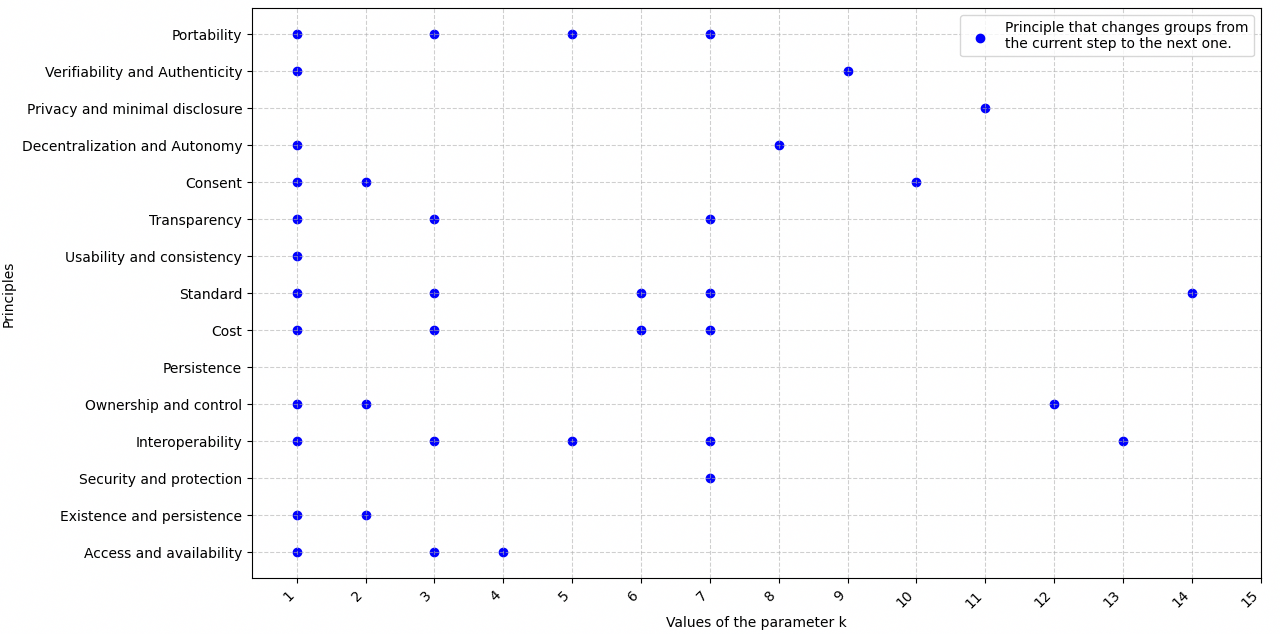
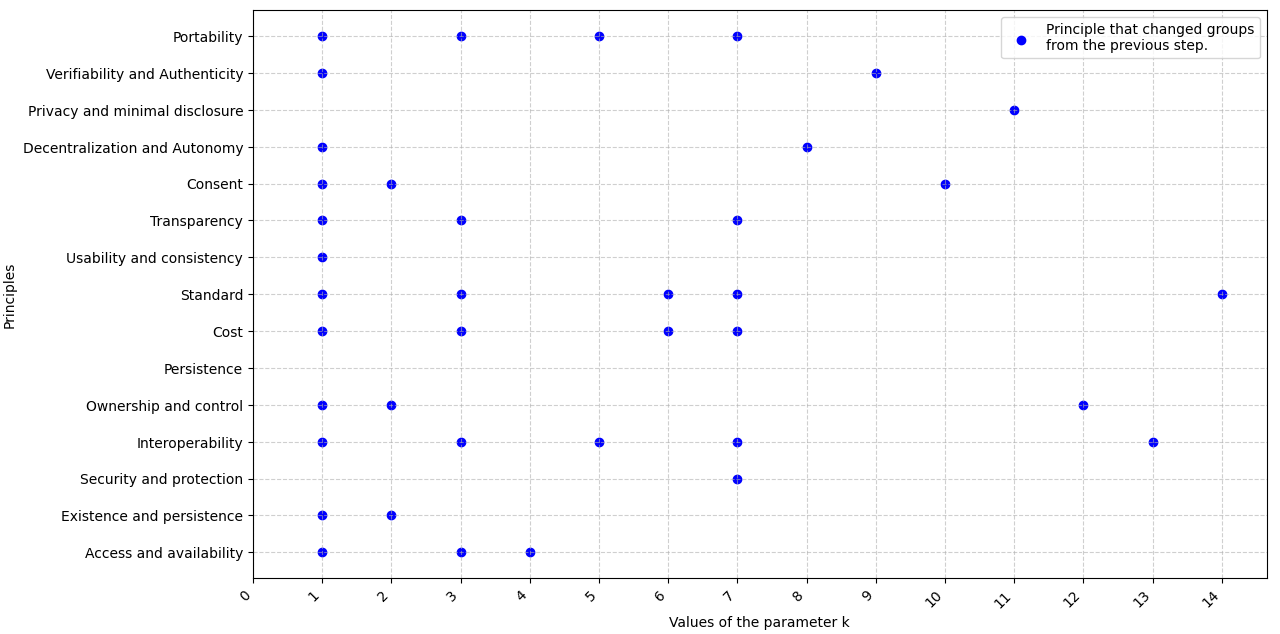
.

diff --git a/definition/program/clustering/kmeans/Flowchart_principles.py b/definition/program/clustering/kmeans/Flowchart_principles.py
@@ -1,0 +1,101 @@
+import matplotlib.pyplot as plt
+import numpy as np
+from scipy.interpolate import make_interp_spline
+
+# Original order of principles (left side)
+principles_left = [
+    "Access and availability", "Existence and persistence", "Security and protection", "Interoperability", 
+    "Ownership and control", "Persistence", "Cost", "Standard", "Usability and consistency", "Transparency", 
+    "Consent", "Decentralization and Autonomy", "Privacy and minimal disclosure", "Verifiability and Authenticity", 
+    "Portability"
+]
+
+# Desired order of principles (right side)
+principles_right = [
+    "Persistence", "Usability and consistency", "Existence and persistence", "Portability", 
+    "Access and availability", "Cost", "Transparency", "Security and protection", 
+    "Decentralization and autonomy", "Verifiability and authenticity", "Consent", 
+    "Privacy and minimal disclosure", "Ownership and control", "Interoperability", "Standard"
+]
+
+steps = np.arange(1, 16)
+
+group_assignments = np.array([
+    [0,1,1,3,4,4,4,4,4,4,4,4,4,4,4],  
+    [0,1,2,2,2,2,2,2,2,2,2,2,2,2,2],  
+    [0,0,0,0,0,0,0,7,7,7,7,7,7,7,7],  
+    [0,1,1,3,3,5,5,3,3,3,3,3,3,13,13], 
+    [0,1,2,2,2,2,2,2,2,2,2,2,12,12,12], 
+    [0,0,0,0,0,0,0,0,0,0,0,0,0,0,0],  
+    [0,1,1,3,3,3,6,5,5,5,5,5,5,5,5],  
+    [0,1,1,3,3,3,6,5,5,5,5,5,5,5,14],  
+    [0,1,1,1,1,1,1,1,1,1,1,1,1,1,1],  
+    [0,1,1,3,3,3,3,6,6,6,6,6,6,6,6],  
+    [0,1,2,2,2,2,2,2,2,2,10,10,10,10,10],  
+    [0,1,1,1,1,1,1,1,8,8,8,8,8,8,8],  
+    [0,0,0,0,0,0,0,0,0,0,0,11,11,11,11],  
+    [0,1,1,1,1,1,1,1,1,9,9,9,9,9,9],  
+    [0,1,1,3,3,5,5,3,3,3,3,3,3,3,3]  
+])
+
+# Define colors for groups
+unique_groups = np.unique(group_assignments)
+colors = plt.cm.tab20(np.linspace(0, 1, len(unique_groups)))
+color_map = {group: color for group, color in zip(unique_groups, colors)}
+
+# Sort principles at each step
+sorted_indices = np.argsort(group_assignments, axis=0)
+
+# Create figure
+fig, ax = plt.subplots(figsize=(12, 10))
+
+# Plot interpolated lines
+for i, principle in enumerate(principles_left):
+    y_positions = np.array([np.where(sorted_indices[:, j] == i)[0][0] for j in range(len(steps))])
+    
+    # Use moderate smoothing without extreme curvature
+    x_smooth = np.linspace(steps.min(), steps.max(), 200)
+    spline = make_interp_spline(steps, y_positions, k=2)
+    y_smooth = spline(x_smooth)
+
+    # Get primary color for the line
+    main_group = group_assignments[i, len(steps) // 2]
+    ax.plot(x_smooth, y_smooth, color=color_map[main_group], linewidth=1, alpha=0.8)
+
+    # Add scatter points
+    for step_idx, step in enumerate(steps):
+        group = group_assignments[i, step_idx]
+        ax.scatter(step, y_positions[step_idx], color=color_map[group], marker='o', s=40, zorder=3)
+
+# Left-side labels (original order)
+ax.set_yticks(range(len(principles_left)))
+ax.set_yticklabels(principles_left, fontsize=10)
+ax.set_ylabel("")
+
+# Right-side labels (desired order)
+ax2 = ax.twinx()
+ax2.set_ylim(ax.get_ylim())  
+ax2.set_yticks(range(len(principles_right)))
+ax2.set_yticklabels(principles_right, fontsize=10)
+ax2.set_ylabel("")
+ax2.yaxis.set_label_position("right")
+ax2.yaxis.tick_right()
+
+# Graph title and labels
+ax.set_title("", fontsize=14, weight='bold')
+ax.set_xlabel("Values of the parameter k", fontsize=12)
+ax.set_xticks(steps)
+ax.grid(visible=True, alpha=0.3)
+
+# Remove chart borders
+for spine in ax.spines.values():
+    spine.set_visible(False)
+for spine in ax2.spines.values():
+    spine.set_visible(False)
+
+# Add boundary lines
+ax.axvline(x=steps[0], color='black', linewidth=1, linestyle='--', alpha=0.7)
+ax.axvline(x=steps[-1], color='black', linewidth=1, linestyle='--', alpha=0.7)
+
+plt.tight_layout()
+plt.show()

diff --git a/definition/program/clustering/kmeans/Principles_change_group.py b/definition/program/clustering/kmeans/Principles_change_group.py
@@ -8,7 +8,7 @@ principles = [
     "Consent", "Decentralization and Autonomy", "Privacy and minimal disclosure", "Verifiability and Authenticity", "Portability"
 ]
 
-steps = list(range(1, 16))
+steps = list(range(0, 15))
 
 group_assignments = [
     [0,1,1,3,4,4,4,4,4,4,4,4,4,4,4],  # Access and availability
@@ -22,9 +22,9 @@ group_assignments = [
     [0,1,1,1,1,1,1,1,1,1,1,1,1,1,1],  # Usability and consistency
     [0,1,1,3,3,3,3,6,6,6,6,6,6,6,6],  # Transparency
     [0,1,2,2,2,2,2,2,2,2,10,10,10,10,10],  # Consent
-    [0,1,1,1,1,1,1,1,8,8,8,8,8,8,8],  # Decentralization and Autonomy
+    [0,1,1,1,1,1,1,1,8,8,8,8,8,8,8],  # Decentralization and autonomy
     [0,0,0,0,0,0,0,0,0,0,0,11,11,11,11],  # Privacy and minimal disclosure
-    [0,1,1,1,1,1,1,1,1,9,9,9,9,9,9],  # Verifiability and Authenticity
+    [0,1,1,1,1,1,1,1,1,9,9,9,9,9,9],  # Verifiability and authenticity
     [0,1,1,3,3,5,5,3,3,3,3,3,3,3,3]  # Portability
 ]
 
@@ -37,7 +37,7 @@ for step in range(len(steps) - 1):
 
 # Visualize changes in a graph
 fig, ax = plt.subplots(figsize=(10, 6))
-ax.scatter([x[0] for x in change_points], [x[1] for x in change_points], color='blue', label='Principle that changes groups from\nthe current step to the next one.')  
+ax.scatter([x[0] for x in change_points], [x[1] for x in change_points], color='blue', label='Principle that changed groups\nfrom the previous step.')  
 ax.set_xticks(steps)
 ax.set_yticks(range(len(principles)))
 ax.set_yticklabels(principles)

diff --git a/definition/Definition.md b/definition/Definition.md
@@ -202,6 +202,9 @@ So, we have tested results with different values for k, and collected retsults.
 ![Principles change group](/definition/images/clusters/k-means/Principles_workflow_groups.png)
 *Figure 12: *
 
+![Principles change group](/definition/images/clusters/k-means/Flowchart_principles.png)
+*Figure 13: *
+
 ###### Discussion and limitations
 (b) It is affected by the shape, size, density of clusters; (c) It is sensitive to outliers.[^saxena][^rai]
 
